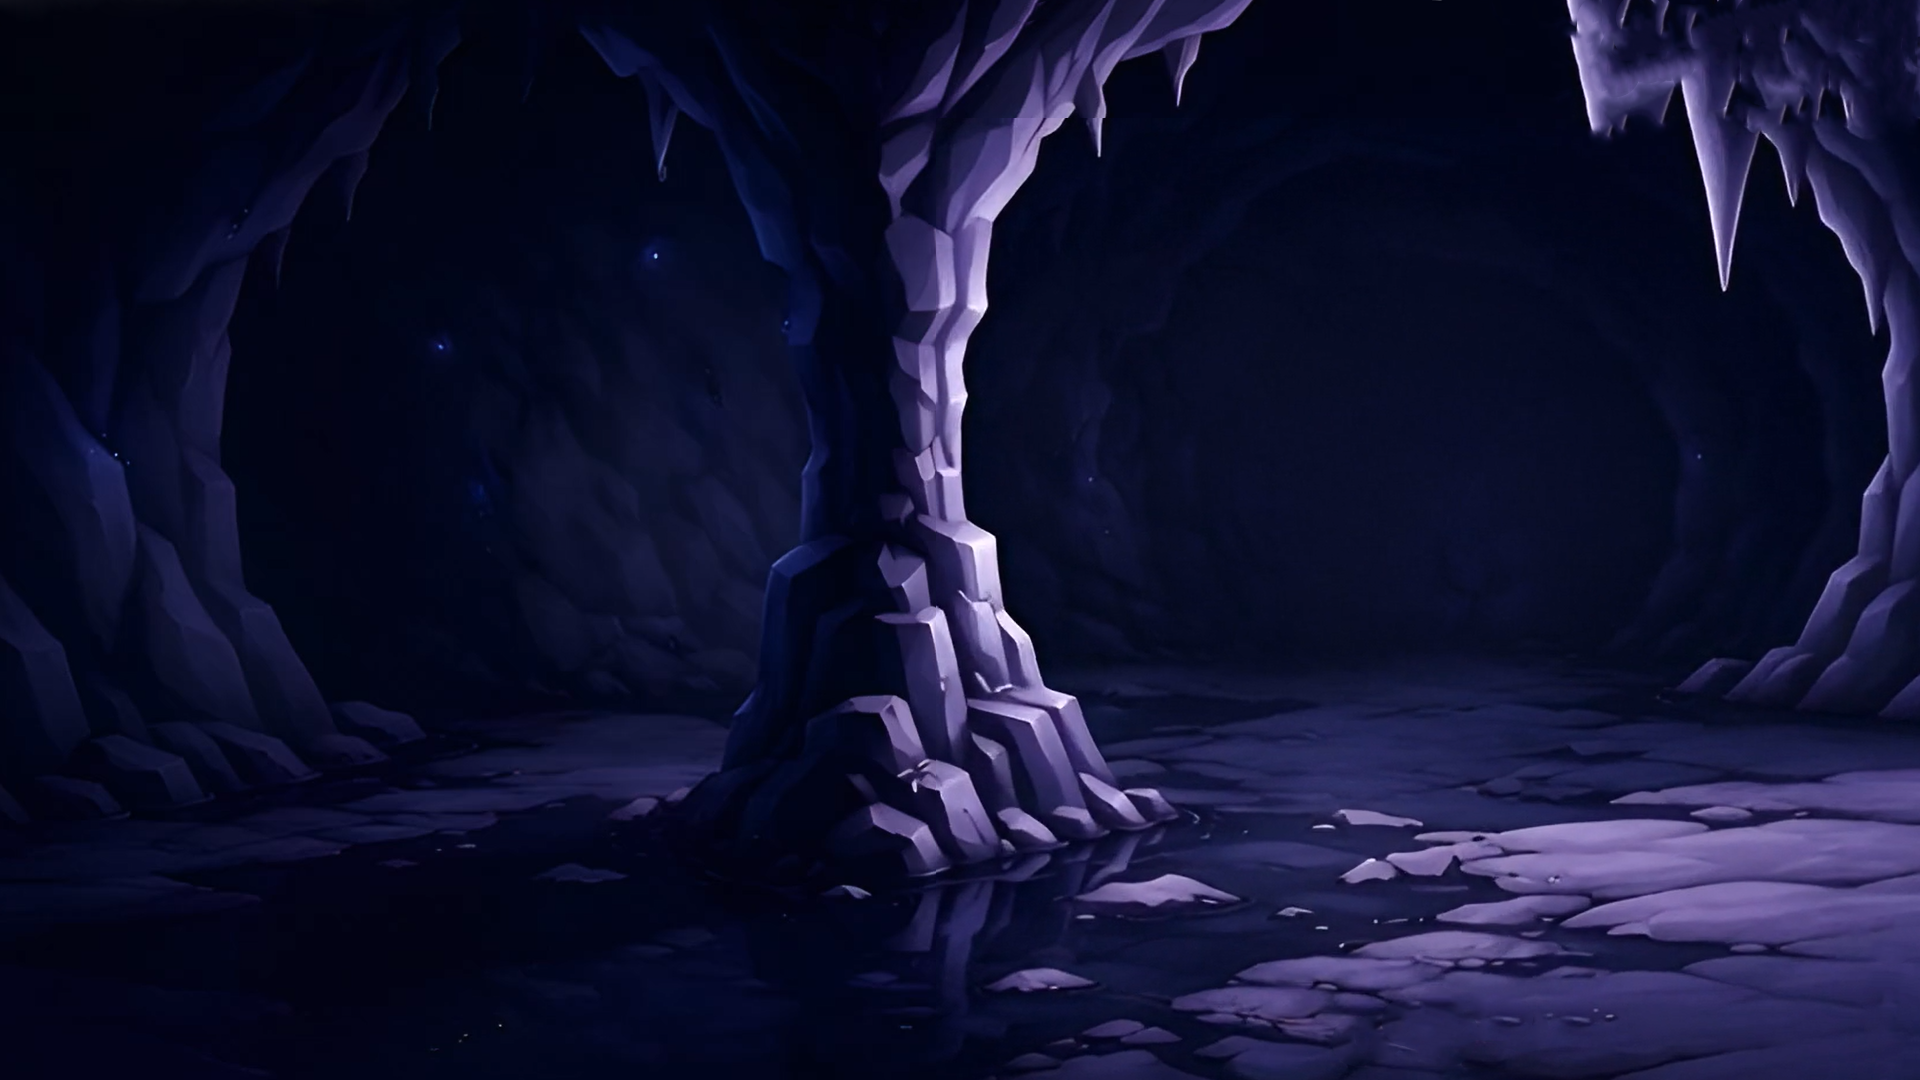
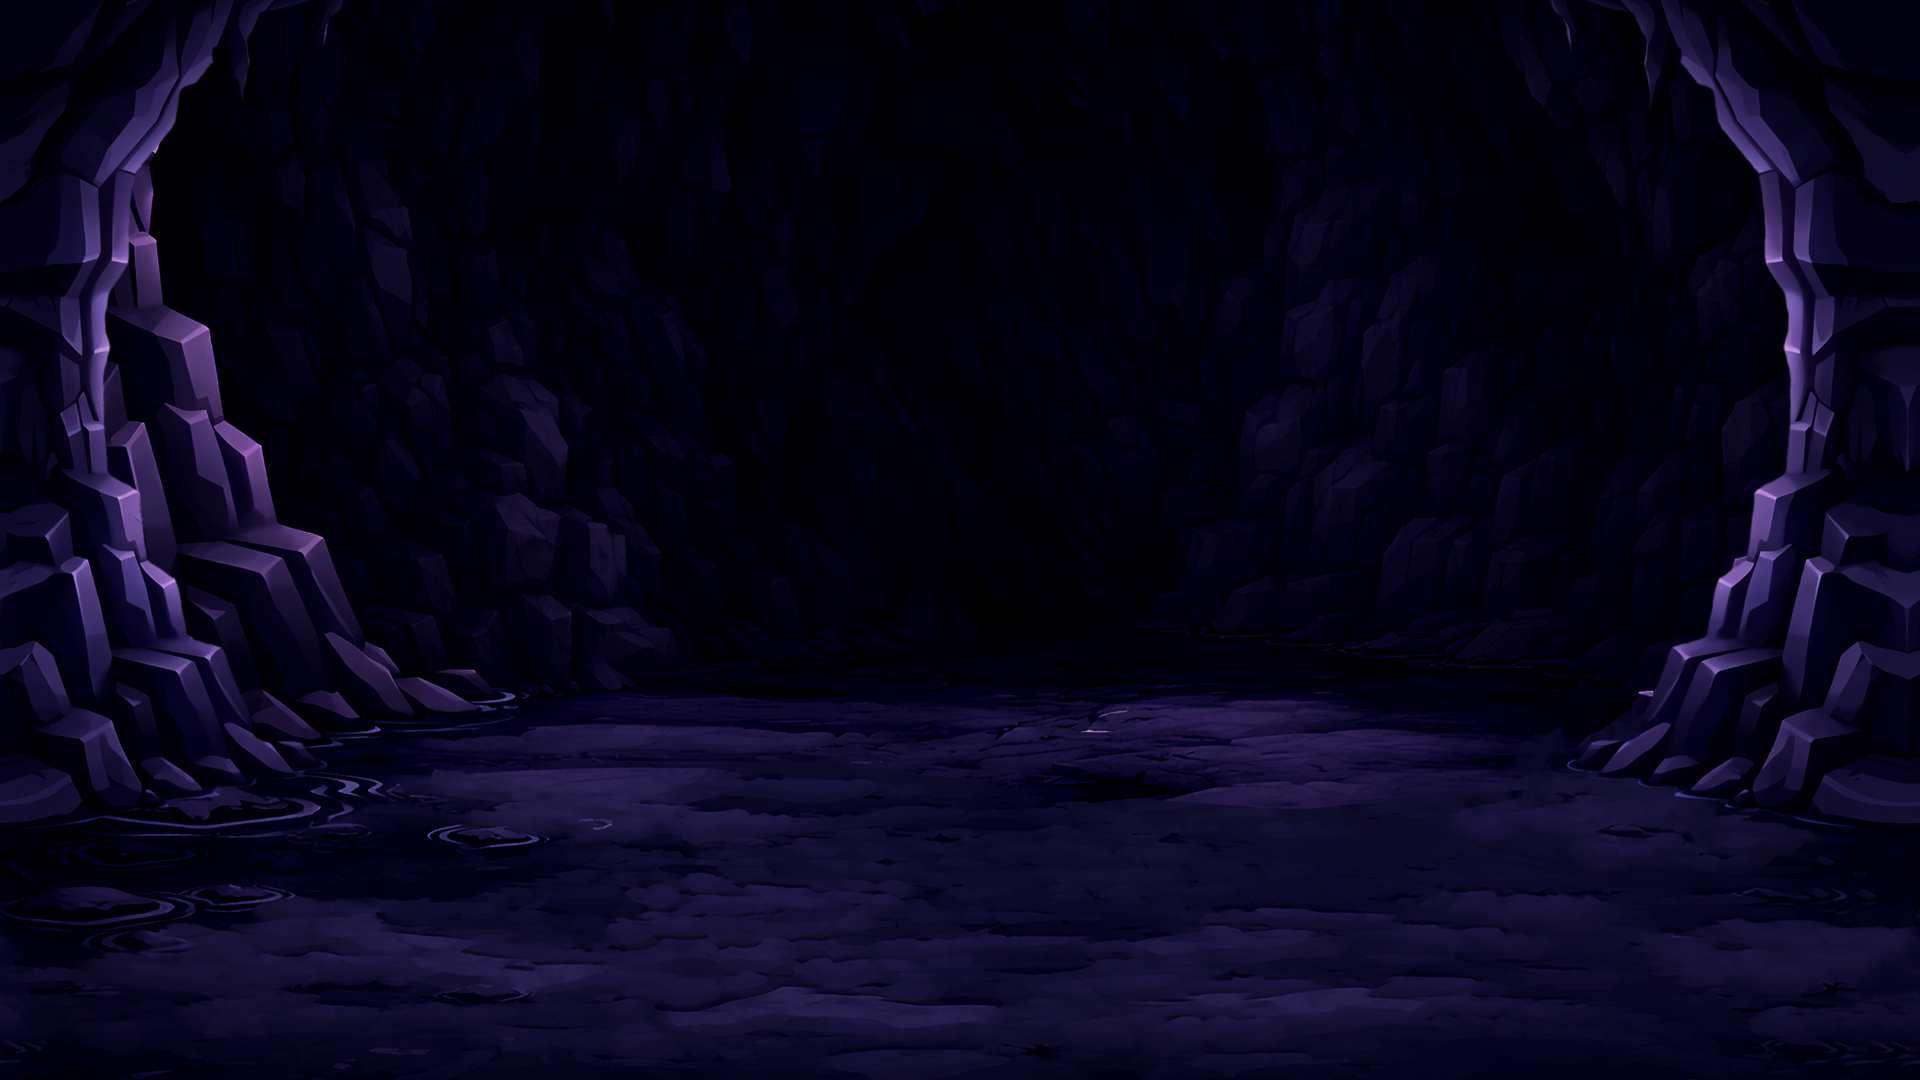
refactor: updated background animation functionality

diff --git a/Assets/_Project/Scripts/UI/BackgroundLooper.cs b/Assets/_Project/Scripts/UI/BackgroundLooper.cs
@@ -1,0 +1,54 @@
+using UnityEngine;
+
+public class BackgroundLooper : MonoBehaviour
+{
+    public RectTransform[] backgrounds; // Assign two backgrounds in Inspector
+    public float speed = 100f;
+    private float width;
+    private bool isMoving = true;
+
+    void Start()
+    {
+        if (backgrounds.Length < 2)
+        {
+            Debug.LogError("Need at least 2 backgrounds for seamless looping!");
+            enabled = false;
+            return;
+        }
+        width = backgrounds[0].rect.width;
+        // Place the first at center, second to the right
+        backgrounds[0].anchoredPosition = Vector2.zero;
+        backgrounds[1].anchoredPosition = new Vector2(width, 0);
+    }
+
+    void Update()
+    {
+        if (!isMoving) return;
+        foreach (var bg in backgrounds)
+        {
+            bg.anchoredPosition += Vector2.left * speed * Time.deltaTime;
+        }
+        for (int i = 0; i < backgrounds.Length; i++)
+        {
+            if (backgrounds[i].anchoredPosition.x <= -width)
+            {
+                float rightMost = backgrounds[0].anchoredPosition.x;
+                for (int j = 1; j < backgrounds.Length; j++)
+                    if (backgrounds[j].anchoredPosition.x > rightMost)
+                        rightMost = backgrounds[j].anchoredPosition.x;
+                backgrounds[i].anchoredPosition = new Vector2(rightMost + width, backgrounds[i].anchoredPosition.y);
+            }
+        }
+    }
+
+    // Call from Animation Event to pause/resume movement
+    public void SetMoving(bool moving)
+    {
+        isMoving = moving;
+    }
+
+    // For manual or Animation Event control
+    public void PauseMovement() => isMoving = false;
+    public void ResumeMovement() => isMoving = true;
+    public bool IsMoving() => isMoving;
+}

diff --git a/Assets/_Project/Scripts/UI/MainMenu/MainMenuCharacterMotionController.cs b/Assets/_Project/Scripts/UI/MainMenu/MainMenuCharacterMotionController.cs
@@ -28,12 +28,23 @@ public class MainMenuCharacterMotionController
         if (!IsReadyForClick()) return;
         canClick = false;
         int actionIndex = Random.Range(1, userClickMax + 1);
-        animator.TriggerAction($"UserClickAction_{actionIndex}");
+        string triggerName = $"UserClickAction_{actionIndex}";
+        animator.TriggerAction(triggerName);
+
+        // Example: external call (log, background, etc.)
+        OnUserActionTriggered(triggerName);
+
         // Не знаем длительность action, поэтому возврат в Walk должен быть через Animator (Has Exit Time)
         // Запускаем только cooldown
         if (cooldownCoroutine != null)
             coroutineHost.StopCoroutine(cooldownCoroutine);
         cooldownCoroutine = coroutineHost.StartCoroutine(CooldownCoroutine());
+
+    }
+
+    protected virtual void OnUserActionTriggered(string triggerName)
+    {
+        // TODO: remove if not needed
     }
 
     private IEnumerator CooldownCoroutine()

diff --git a/Assets/_Project/Scripts/UI/PlayerActionController.cs b/Assets/_Project/Scripts/UI/PlayerActionController.cs
@@ -1,0 +1,19 @@
+using UnityEngine;
+
+public class PlayerActionController : MonoBehaviour
+{
+    public Animator playerAnimator;
+
+    // Эти методы вызываются из Animation Event на нужных кадрах
+    public void PauseBackground()
+    {
+        var looper = FindFirstObjectByType<BackgroundLooper>();
+        if (looper != null) looper.PauseMovement();
+    }
+
+    public void ResumeBackground()
+    {
+        var looper = FindFirstObjectByType<BackgroundLooper>();
+        if (looper != null) looper.ResumeMovement();
+    }
+}
